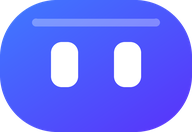
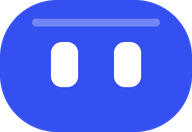
Brainer, in flat screen blue: the visor and the name in every game
Tornike's core palette makes the visor flat screen blue #3550F0 (as on
the site), and his naming call makes the brand "Brainer" everywhere,
with "Games" only in the domain. Every game's top-left visor, tab icon
and intro visor are now flat #3550F0. Titles, meta descriptions and the
logo's alt text now say Brainer. The intro's fourth loading cells light
sky blue instead of gold, which is kept for wins and titles. Space
Crash's static title said Plane Crash; it now says Space Crash.

diff --git a/Game #5 - Multi Charge/index.html b/Game #5 - Multi Charge/index.html
@@ -5,8 +5,8 @@
 <meta name="viewport" content="width=device-width, initial-scale=1, viewport-fit=cover">
 <meta name="robots" content="noindex">
 <meta name="theme-color" content="#0a1322">
-<meta name="description" content="Multi Charge by Brainer Games: pick one of five charging pillars at every charge to level your Brainer up and raise the multiplier, and cash out before an overloaded one. Demo with play money.">
-<title>Multi Charge · Brainer Games</title>
+<meta name="description" content="Multi Charge by Brainer: pick one of five charging pillars at every charge to level your Brainer up and raise the multiplier, and cash out before an overloaded one. Demo with play money.">
+<title>Multi Charge · Brainer</title>
 <link rel="icon" href="assets/favicon.svg" type="image/svg+xml">
 <link rel="icon" href="assets/favicon.png" sizes="any">
 <link rel="preload" href="assets/fonts/FiraGO-ExtraBold.woff2" as="font" type="font/woff2" crossorigin>
@@ -30,7 +30,7 @@
   <section class="stage" id="stage">
     <canvas id="cv" aria-label="Your Brainer on the charging pad in the lab, with five charging pillars round it"></canvas>
     <header class="hud">
-      <div class="brand"><img src="assets/visor.png" alt="Brainer Games" class="logo"><span class="t1">Multi Charge</span></div>
+      <div class="brand"><img src="assets/visor.png" alt="Brainer" class="logo"><span class="t1">Multi Charge</span></div>
       <div class="hud-right">
         <button type="button" class="round" id="fair" aria-label="Provably fair: check your rounds" aria-haspopup="dialog" aria-controls="fairSheet"><svg viewBox="0 0 24 24" width="18" height="18" aria-hidden="true"><path d="M12 3 5 6v6c0 4.5 3 7.5 7 9 4-1.5 7-4.5 7-9V6z" fill="none" stroke="currentColor" stroke-width="2" stroke-linejoin="round"/><path d="m9 12 2 2 4-4" fill="none" stroke="currentColor" stroke-width="2" stroke-linecap="round" stroke-linejoin="round"/></svg></button>
         <button type="button" class="round" id="help" aria-label="How to play"><svg viewBox="0 0 24 24" width="18" height="18" aria-hidden="true"><circle cx="12" cy="12" r="9.5" fill="none" stroke="currentColor" stroke-width="2"/><path d="M9.6 9.3a2.5 2.5 0 1 1 3.4 2.3c-.6.3-1 .8-1 1.5v.6" fill="none" stroke="currentColor" stroke-width="2" stroke-linecap="round"/><circle cx="12" cy="17" r="1.2" fill="currentColor"/></svg></button>

diff --git a/Game #3 - Fly High/index.html b/Game #3 - Fly High/index.html
@@ -5,8 +5,8 @@
 <meta name="viewport" content="width=device-width, initial-scale=1, viewport-fit=cover">
 <meta name="robots" content="noindex">
 <meta name="theme-color" content="#0a1322">
-<meta name="description" content="Fly High by Brainer Games: the Brainer fires its jets and suits up as the multiplier climbs. Cash out before it flies away. Demo with play money.">
-<title>Fly High · Brainer Games</title>
+<meta name="description" content="Fly High by Brainer: the Brainer fires its jets and suits up as the multiplier climbs. Cash out before it flies away. Demo with play money.">
+<title>Fly High · Brainer</title>
 <link rel="icon" href="assets/favicon.svg" type="image/svg+xml">
 <link rel="icon" href="assets/favicon.png" sizes="any">
 <link rel="preload" href="assets/fonts/FiraGO-ExtraBold.woff2" as="font" type="font/woff2" crossorigin>
@@ -20,7 +20,7 @@
   <section class="stage" id="stage">
     <canvas id="cv" aria-label="The Brainer's flight"></canvas>
     <header class="hud">
-      <div class="brand"><img src="assets/visor.png" alt="Brainer Games" class="logo"><span class="t1">Fly High</span></div>
+      <div class="brand"><img src="assets/visor.png" alt="Brainer" class="logo"><span class="t1">Fly High</span></div>
       <div class="hud-right">
         <button type="button" class="round" id="fair" aria-label="Provably fair: check your rounds" aria-haspopup="dialog" aria-controls="fairSheet"><svg viewBox="0 0 24 24" width="18" height="18" aria-hidden="true"><path d="M12 3 5 6v6c0 4.5 3 7.5 7 9 4-1.5 7-4.5 7-9V6z" fill="none" stroke="currentColor" stroke-width="2" stroke-linejoin="round"/><path d="m9 12 2 2 4-4" fill="none" stroke="currentColor" stroke-width="2" stroke-linecap="round" stroke-linejoin="round"/></svg></button>
         <button type="button" class="round" id="top" aria-label="Leaderboard" aria-haspopup="dialog" aria-controls="topSheet"><svg viewBox="0 0 24 24" width="18" height="18" aria-hidden="true"><path d="M7 4h10v4a5 5 0 0 1-10 0z" fill="none" stroke="currentColor" stroke-width="2" stroke-linejoin="round"/><path d="M7 6H4.5a2.5 2.5 0 0 0 3 3.6M17 6h2.5a2.5 2.5 0 0 1-3 3.6M12 13v3M8.5 20h7l-1-4h-5z" fill="none" stroke="currentColor" stroke-width="2" stroke-linecap="round" stroke-linejoin="round"/></svg></button>

diff --git a/Game #6 - Space Crash/index.html b/Game #6 - Space Crash/index.html
@@ -5,8 +5,8 @@
 <meta name="viewport" content="width=device-width, initial-scale=1, viewport-fit=cover">
 <meta name="robots" content="noindex">
 <meta name="theme-color" content="#0a0820">
-<meta name="description" content="Space Crash by Brainer Games: shoot one of five shield drones in each row and fly on, or cash out with your win. Demo with play money.">
-<title>Space Crash · Brainer Games</title>
+<meta name="description" content="Space Crash by Brainer: shoot one of five shield drones in each row and fly on, or cash out with your win. Demo with play money.">
+<title>Space Crash · Brainer</title>
 <link rel="icon" href="assets/favicon.svg" type="image/svg+xml">
 <link rel="icon" href="assets/favicon.png" sizes="any">
 <link rel="preload" href="assets/fonts/FiraGO-ExtraBold.woff2" as="font" type="font/woff2" crossorigin>
@@ -19,7 +19,7 @@
   <section class="stage" id="stage">
     <canvas id="cv" aria-label="Your Brainer's pod jet and the shield drones ahead"></canvas>
     <header class="hud">
-      <div class="brand"><img src="assets/visor.png" alt="Brainer Games" class="logo"><span class="t1">Plane Crash</span></div>
+      <div class="brand"><img src="assets/visor.png" alt="Brainer" class="logo"><span class="t1">Space Crash</span></div>
       <div class="hud-right">
         <button type="button" class="round" id="fair" aria-label="Provably fair: check your rounds" aria-haspopup="dialog" aria-controls="fairSheet"><svg viewBox="0 0 24 24" width="18" height="18" aria-hidden="true"><path d="M12 3 5 6v6c0 4.5 3 7.5 7 9 4-1.5 7-4.5 7-9V6z" fill="none" stroke="currentColor" stroke-width="2" stroke-linejoin="round"/><path d="m9 12 2 2 4-4" fill="none" stroke="currentColor" stroke-width="2" stroke-linecap="round" stroke-linejoin="round"/></svg></button>
         <button type="button" class="round" id="help" aria-label="How to play"><svg viewBox="0 0 24 24" width="18" height="18" aria-hidden="true"><circle cx="12" cy="12" r="9.5" fill="none" stroke="currentColor" stroke-width="2"/><path d="M9.6 9.3a2.5 2.5 0 1 1 3.4 2.3c-.6.3-1 .8-1 1.5v.6" fill="none" stroke="currentColor" stroke-width="2" stroke-linecap="round"/><circle cx="12" cy="17" r="1.2" fill="currentColor"/></svg></button>

diff --git a/Game #4 - Charge/index.html b/Game #4 - Charge/index.html
@@ -5,8 +5,8 @@
 <meta name="viewport" content="width=device-width, initial-scale=1, viewport-fit=cover">
 <meta name="robots" content="noindex">
 <meta name="theme-color" content="#0a1322">
-<meta name="description" content="Charge by Brainer Games: charge your Brainer to level it up and raise the multiplier, or overcharge it into a broken robot. Demo with play money.">
-<title>Charge · Brainer Games</title>
+<meta name="description" content="Charge by Brainer: charge your Brainer to level it up and raise the multiplier, or overcharge it into a broken robot. Demo with play money.">
+<title>Charge · Brainer</title>
 <link rel="icon" href="assets/favicon.svg" type="image/svg+xml">
 <link rel="icon" href="assets/favicon.png" sizes="any">
 <link rel="preload" href="assets/fonts/FiraGO-ExtraBold.woff2" as="font" type="font/woff2" crossorigin>
@@ -30,7 +30,7 @@
   <section class="stage" id="stage">
     <canvas id="cv" aria-label="Your Brainer on the charging pad"></canvas>
     <header class="hud">
-      <div class="brand"><img src="assets/visor.png" alt="Brainer Games" class="logo"><span class="t1">Charge</span></div>
+      <div class="brand"><img src="assets/visor.png" alt="Brainer" class="logo"><span class="t1">Charge</span></div>
       <div class="hud-right">
         <button type="button" class="round" id="fair" aria-label="Provably fair: check your rounds" aria-haspopup="dialog" aria-controls="fairSheet"><svg viewBox="0 0 24 24" width="18" height="18" aria-hidden="true"><path d="M12 3 5 6v6c0 4.5 3 7.5 7 9 4-1.5 7-4.5 7-9V6z" fill="none" stroke="currentColor" stroke-width="2" stroke-linejoin="round"/><path d="m9 12 2 2 4-4" fill="none" stroke="currentColor" stroke-width="2" stroke-linecap="round" stroke-linejoin="round"/></svg></button>
         <button type="button" class="round" id="help" aria-label="How to play"><svg viewBox="0 0 24 24" width="18" height="18" aria-hidden="true"><circle cx="12" cy="12" r="9.5" fill="none" stroke="currentColor" stroke-width="2"/><path d="M9.6 9.3a2.5 2.5 0 1 1 3.4 2.3c-.6.3-1 .8-1 1.5v.6" fill="none" stroke="currentColor" stroke-width="2" stroke-linecap="round"/><circle cx="12" cy="17" r="1.2" fill="currentColor"/></svg></button>

diff --git a/Game #1 - Plane Crash/index.html b/Game #1 - Plane Crash/index.html
@@ -5,8 +5,8 @@
 <meta name="viewport" content="width=device-width, initial-scale=1, viewport-fit=cover">
 <meta name="robots" content="noindex">
 <meta name="theme-color" content="#0a1322">
-<meta name="description" content="Plane Crash by Brainer Games: pick one of five paths while bombs fall, or bail out with the parachute. Demo with play money.">
-<title>Plane Crash · Brainer Games</title>
+<meta name="description" content="Plane Crash by Brainer: pick one of five paths while bombs fall, or bail out with the parachute. Demo with play money.">
+<title>Plane Crash · Brainer</title>
 <link rel="icon" href="assets/favicon.svg" type="image/svg+xml">
 <link rel="icon" href="assets/favicon.png" sizes="any">
 <link rel="preload" href="assets/fonts/FiraGO-ExtraBold.woff2" as="font" type="font/woff2" crossorigin>
@@ -19,7 +19,7 @@
   <section class="stage" id="stage">
     <canvas id="cv" aria-label="Your Brainer's flight"></canvas>
     <header class="hud">
-      <div class="brand"><img src="assets/visor.png" alt="Brainer Games" class="logo"><span class="t1">Plane Crash</span></div>
+      <div class="brand"><img src="assets/visor.png" alt="Brainer" class="logo"><span class="t1">Plane Crash</span></div>
       <div class="hud-right">
         <button type="button" class="round" id="fair" aria-label="Provably fair: check your flights" aria-haspopup="dialog" aria-controls="fairSheet"><svg viewBox="0 0 24 24" width="18" height="18" aria-hidden="true"><path d="M12 3 5 6v6c0 4.5 3 7.5 7 9 4-1.5 7-4.5 7-9V6z" fill="none" stroke="currentColor" stroke-width="2" stroke-linejoin="round"/><path d="m9 12 2 2 4-4" fill="none" stroke="currentColor" stroke-width="2" stroke-linecap="round" stroke-linejoin="round"/></svg></button>
         <button type="button" class="round" id="help" aria-label="How to play"><svg viewBox="0 0 24 24" width="18" height="18" aria-hidden="true"><circle cx="12" cy="12" r="9.5" fill="none" stroke="currentColor" stroke-width="2"/><path d="M9.6 9.3a2.5 2.5 0 1 1 3.4 2.3c-.6.3-1 .8-1 1.5v.6" fill="none" stroke="currentColor" stroke-width="2" stroke-linecap="round"/><circle cx="12" cy="17" r="1.2" fill="currentColor"/></svg></button>

diff --git a/shared/intro.js b/shared/intro.js
@@ -25,7 +25,7 @@ const FACES = { plane: [0.49, 0.352, 0.236], fog: [0.5, 0.33, 0.2], fly: [0.5, 0
 const W0 = 36755;   // the clock the robot holds its pose at (see actorClock): a moment the plane flies level and the head looks straight on
 // the Brainer's visor, the studio logo (Website/assets/brainer/logo/visor.svg): just the lit screen, no dark shell, inline so
 // its screen and eyes can light up
-const visor = cls => { const id = `iv${++visorN}`, off = cls === 'boot-visor' ? '<rect class="off" width="64" height="44" rx="19" fill="#0d1830"/>' : ''; return `<svg class="${cls}" viewBox="0 0 64 44" aria-hidden="true"><defs><linearGradient id="${id}" x1="0" y1="0" x2="1" y2="1"><stop offset="0" stop-color="#3f7bff"/><stop offset="1" stop-color="#5a32fb"/></linearGradient></defs>${off}<rect class="screen" width="64" height="44" rx="19" fill="url(#${id})"/><path class="gloss" d="M12 7.5h40" stroke="#fff" stroke-opacity=".3" stroke-width="2.6" stroke-linecap="round"/><rect class="eye" x="17" y="14" width="9" height="15" rx="3.6" fill="#fff"/><rect class="eye" x="38" y="14" width="9" height="15" rx="3.6" fill="#fff"/></svg>`; };
+const visor = cls => { const id = `iv${++visorN}`, off = cls === 'boot-visor' ? '<rect class="off" width="64" height="44" rx="19" fill="#0d1830"/>' : ''; return `<svg class="${cls}" viewBox="0 0 64 44" aria-hidden="true"><defs><linearGradient id="${id}" x1="0" y1="0" x2="1" y2="1"><stop offset="0" stop-color="#3550F0"/><stop offset="1" stop-color="#3550F0"/></linearGradient></defs>${off}<rect class="screen" width="64" height="44" rx="19" fill="url(#${id})"/><path class="gloss" d="M12 7.5h40" stroke="#fff" stroke-opacity=".3" stroke-width="2.6" stroke-linecap="round"/><rect class="eye" x="17" y="14" width="9" height="15" rx="3.6" fill="#fff"/><rect class="eye" x="38" y="14" width="9" height="15" rx="3.6" fill="#fff"/></svg>`; };
 
 function wordmark(mark) {
   if (mark === 'plane') return `<span class="wm wm-plane" role="img" aria-label="Plane Crash"><span class="wm-w wm-top" data-t="PLANE"><b>PLANE</b></span><span class="wm-w wm-main" data-t="CRASH"><b>CRASH</b></span>`

diff --git a/shared/intro.css b/shared/intro.css
@@ -35,7 +35,7 @@
 .intro-cells i{width:11px;height:11px;border-radius:50%;background:rgba(255,255,255,.28);transition:background .25s,box-shadow .25s,transform .25s}
 .intro-cells i.on{background:#fff;box-shadow:0 0 10px #c9b8ff;transform:scale(1.15)}
 .intro-cells i.on:nth-child(3n){background:#33d66d;box-shadow:0 0 10px #33d66d}
-.intro-cells i.on:nth-child(4n){background:#ffc147;box-shadow:0 0 10px #ffc147}
+.intro-cells i.on:nth-child(4n){background:#58b7ff;box-shadow:0 0 10px #58b7ff}
 .intro-note{margin-top:6px;font-weight:700;font-size:13px;letter-spacing:.03em;opacity:.9}
 .intro-skip{position:absolute;right:16px;bottom:16px;padding:8px 14px;border:1px solid rgba(255,255,255,.35);border-radius:999px;background:rgba(255,255,255,.12);color:#fff;font:700 13px FiraGO,system-ui,sans-serif}
 /* the opening: black with only the visor; its screen flickers on, the eyes blink open, then its light floods out into the
